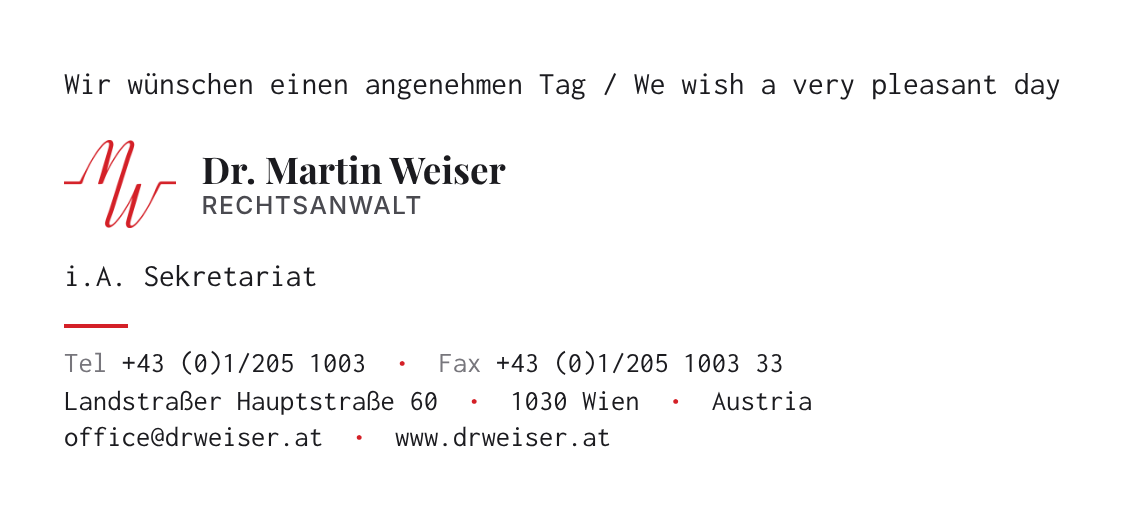
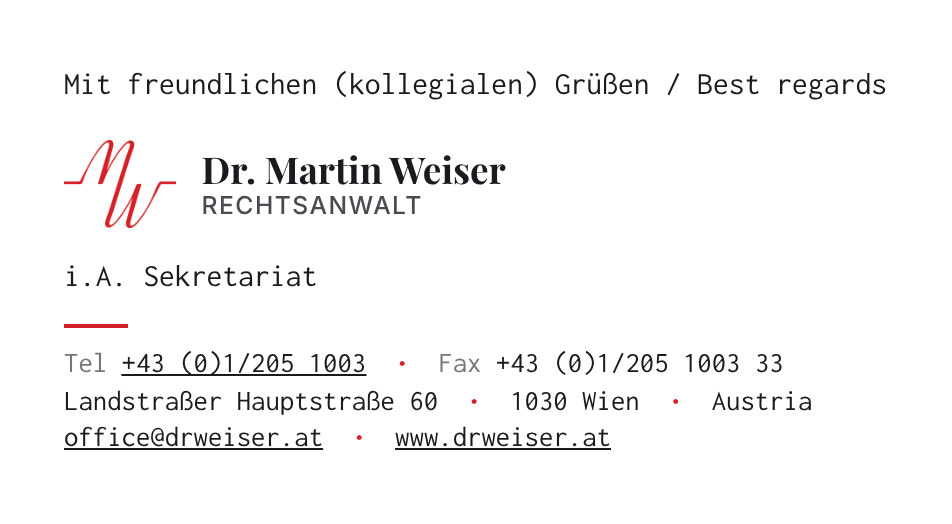
E-Mail-Signatur: neue Grußzeile, Entwurf mit langem Strich, sichtbare Links
- Erste Zeile: „Mit freundlichen (kollegialen) Grüßen / Best regards“
- Zweiter Entwurf mit langem rotem Strich über den Kontaktdaten
- Telefon, E-Mail und Website unterstrichen verlinkt; Website-Links
  auf https://drweiser.at, da das Zertifikat www nicht abdeckt
- Vorschauen und Anleitung für beide Entwürfe

Claude-Session: https://claude.ai/code/session_01FmFstLP2dWuSsSstYfuTzq

diff --git a/email-signatur/signatur-web.html b/email-signatur/signatur-web.html
@@ -10,14 +10,14 @@
   E-Mail-Signatur Kanzlei Dr. Martin Weiser
   Übernehmen: Datei im Browser öffnen, Strg+A, Strg+C, im Signatur-Editor
   des Mailprogramms einfügen (Strg+V). Anleitung: README.md
-  Variante mit eingebettetem Logo (für neues Outlook, Outlook im Web, Mac).
+  Entwurf A (kurzer roter Strich), Logo eingebettet (neues Outlook, Outlook im Web, Mac).
 -->
 <table role="presentation" cellpadding="0" cellspacing="0" border="0" style="border-collapse:collapse;">
   <tr>
-    <td style="padding:0 0 12px 0; font-family:Consolas, Menlo, 'Courier New', monospace; font-size:11pt; line-height:15pt; mso-line-height-rule:exactly; color:#1B1B1F;">Wir w&uuml;nschen einen angenehmen Tag&nbsp;/ We&nbsp;wish&nbsp;a&nbsp;very&nbsp;pleasant&nbsp;day</td>
+    <td style="padding:0 0 12px 0; font-family:Consolas, Menlo, 'Courier New', monospace; font-size:11pt; line-height:15pt; mso-line-height-rule:exactly; color:#1B1B1F;">Mit freundlichen (kollegialen) Gr&uuml;&szlig;en&nbsp;/ Best&nbsp;regards</td>
   </tr>
   <tr>
[2 lines of base64/hex data omitted]
   </tr>
   <tr>
     <td style="padding:0 0 14px 0; font-family:Consolas, Menlo, 'Courier New', monospace; font-size:11pt; line-height:15pt; mso-line-height-rule:exactly; color:#1B1B1F;">i.A. Sekretariat</td>
@@ -30,9 +30,9 @@
     </td>
   </tr>
   <tr>
-    <td style="font-family:Consolas, Menlo, 'Courier New', monospace; font-size:10pt; line-height:14pt; mso-line-height-rule:exactly; color:#1B1B1F;"><span style="color:#77767C;">Tel</span>&nbsp;<a href="tel:+4312051003" style="color:#1B1B1F; text-decoration:none;"><span style="color:#1B1B1F;">+43&nbsp;(0)1/205&nbsp;1003</span></a>&nbsp;&nbsp;<span style="color:#D42027;">&bull;</span>&nbsp; <span style="color:#77767C;">Fax</span>&nbsp;+43&nbsp;(0)1/205&nbsp;1003&nbsp;33<br>
+    <td style="font-family:Consolas, Menlo, 'Courier New', monospace; font-size:10pt; line-height:14pt; mso-line-height-rule:exactly; color:#1B1B1F;"><span style="color:#77767C;">Tel</span>&nbsp;<a href="tel:+4312051003" style="color:#1B1B1F; text-decoration:underline;"><span style="color:#1B1B1F; text-decoration:underline;">+43&nbsp;(0)1/205&nbsp;1003</span></a>&nbsp;&nbsp;<span style="color:#D42027;">&bull;</span>&nbsp; <span style="color:#77767C;">Fax</span>&nbsp;+43&nbsp;(0)1/205&nbsp;1003&nbsp;33<br>
 Landstra&szlig;er&nbsp;Hauptstra&szlig;e&nbsp;60&nbsp;&nbsp;<span style="color:#D42027;">&bull;</span>&nbsp; 1030&nbsp;Wien&nbsp;&nbsp;<span style="color:#D42027;">&bull;</span>&nbsp;&nbsp;Austria<br>
-<a href="mailto:office@drweiser.at" style="color:#1B1B1F; text-decoration:none;"><span style="color:#1B1B1F;">office@drweiser.at</span></a>&nbsp;&nbsp;<span style="color:#D42027;">&bull;</span>&nbsp; <a href="https://www.drweiser.at" style="color:#1B1B1F; text-decoration:none;"><span style="color:#1B1B1F;">www.drweiser.at</span></a></td>
+<a href="mailto:office@drweiser.at" style="color:#1B1B1F; text-decoration:underline;"><span style="color:#1B1B1F; text-decoration:underline;">office@drweiser.at</span></a>&nbsp;&nbsp;<span style="color:#D42027;">&bull;</span>&nbsp; <a href="https://drweiser.at" style="color:#1B1B1F; text-decoration:underline;"><span style="color:#1B1B1F; text-decoration:underline;">www.drweiser.at</span></a></td>
   </tr>
 </table>
 </body>

diff --git a/email-signatur/signatur-langer-strich-web.html b/email-signatur/signatur-langer-strich-web.html
@@ -1,0 +1,32 @@
+<!DOCTYPE html>
+<html lang="de">
+<head>
+<meta http-equiv="Content-Type" content="text/html; charset=utf-8">
+<meta name="viewport" content="width=device-width, initial-scale=1">
+<title>E-Mail-Signatur Dr. Martin Weiser</title>
+</head>
+<body style="margin:0; padding:24px; background-color:#ffffff;">
+<!--
+  E-Mail-Signatur Kanzlei Dr. Martin Weiser
+  Übernehmen: Datei im Browser öffnen, Strg+A, Strg+C, im Signatur-Editor
+  des Mailprogramms einfügen (Strg+V). Anleitung: README.md
+  Entwurf B (langer roter Strich), Logo eingebettet (neues Outlook, Outlook im Web, Mac).
+-->
+<table role="presentation" cellpadding="0" cellspacing="0" border="0" style="border-collapse:collapse;">
+  <tr>
+    <td style="padding:0 0 12px 0; font-family:Consolas, Menlo, 'Courier New', monospace; font-size:11pt; line-height:15pt; mso-line-height-rule:exactly; color:#1B1B1F;">Mit freundlichen (kollegialen) Gr&uuml;&szlig;en&nbsp;/ Best&nbsp;regards</td>
+  </tr>
+  <tr>
[1 lines of base64/hex data omitted]
+  </tr>
+  <tr>
+    <td style="padding:0 0 14px 0; font-family:Consolas, Menlo, 'Courier New', monospace; font-size:11pt; line-height:15pt; mso-line-height-rule:exactly; color:#1B1B1F;">i.A. Sekretariat</td>
+  </tr>
+  <tr>
+    <td style="border-top:2px solid #D42027; padding-top:10px; font-family:Consolas, Menlo, 'Courier New', monospace; font-size:10pt; line-height:14pt; mso-line-height-rule:exactly; color:#1B1B1F;"><span style="color:#77767C;">Tel</span>&nbsp;<a href="tel:+4312051003" style="color:#1B1B1F; text-decoration:underline;"><span style="color:#1B1B1F; text-decoration:underline;">+43&nbsp;(0)1/205&nbsp;1003</span></a>&nbsp;&nbsp;<span style="color:#D42027;">&bull;</span>&nbsp; <span style="color:#77767C;">Fax</span>&nbsp;+43&nbsp;(0)1/205&nbsp;1003&nbsp;33<br>
+Landstra&szlig;er&nbsp;Hauptstra&szlig;e&nbsp;60&nbsp;&nbsp;<span style="color:#D42027;">&bull;</span>&nbsp; 1030&nbsp;Wien&nbsp;&nbsp;<span style="color:#D42027;">&bull;</span>&nbsp;&nbsp;Austria<br>
+<a href="mailto:office@drweiser.at" style="color:#1B1B1F; text-decoration:underline;"><span style="color:#1B1B1F; text-decoration:underline;">office@drweiser.at</span></a>&nbsp;&nbsp;<span style="color:#D42027;">&bull;</span>&nbsp; <a href="https://drweiser.at" style="color:#1B1B1F; text-decoration:underline;"><span style="color:#1B1B1F; text-decoration:underline;">www.drweiser.at</span></a></td>
+  </tr>
+</table>
+</body>
+</html>

diff --git a/email-signatur/signatur.html b/email-signatur/signatur.html
@@ -10,14 +10,14 @@
   E-Mail-Signatur Kanzlei Dr. Martin Weiser
   Übernehmen: Datei im Browser öffnen, Strg+A, Strg+C, im Signatur-Editor
   des Mailprogramms einfügen (Strg+V). Anleitung: README.md
-  logo-signatur.png muss im selben Ordner liegen wie diese Datei.
+  Entwurf A (kurzer roter Strich). logo-signatur.png muss im selben Ordner liegen.
 -->
 <table role="presentation" cellpadding="0" cellspacing="0" border="0" style="border-collapse:collapse;">
   <tr>
-    <td style="padding:0 0 12px 0; font-family:Consolas, Menlo, 'Courier New', monospace; font-size:11pt; line-height:15pt; mso-line-height-rule:exactly; color:#1B1B1F;">Wir w&uuml;nschen einen angenehmen Tag&nbsp;/ We&nbsp;wish&nbsp;a&nbsp;very&nbsp;pleasant&nbsp;day</td>
+    <td style="padding:0 0 12px 0; font-family:Consolas, Menlo, 'Courier New', monospace; font-size:11pt; line-height:15pt; mso-line-height-rule:exactly; color:#1B1B1F;">Mit freundlichen (kollegialen) Gr&uuml;&szlig;en&nbsp;/ Best&nbsp;regards</td>
   </tr>
   <tr>
-    <td style="padding:0 0 8px 0;"><a href="https://www.drweiser.at" style="text-decoration:none;"><img src="logo-signatur.png" width="231" height="56" alt="Dr. Martin Weiser &middot; Rechtsanwalt" style="display:block; width:231px; height:56px; border:0;"></a></td>
+    <td style="padding:0 0 8px 0;"><a href="https://drweiser.at" style="text-decoration:none;"><img src="logo-signatur.png" width="231" height="56" alt="Dr. Martin Weiser &middot; Rechtsanwalt" style="display:block; width:231px; height:56px; border:0;"></a></td>
   </tr>
   <tr>
     <td style="padding:0 0 14px 0; font-family:Consolas, Menlo, 'Courier New', monospace; font-size:11pt; line-height:15pt; mso-line-height-rule:exactly; color:#1B1B1F;">i.A. Sekretariat</td>
@@ -30,9 +30,9 @@
     </td>
   </tr>
   <tr>
-    <td style="font-family:Consolas, Menlo, 'Courier New', monospace; font-size:10pt; line-height:14pt; mso-line-height-rule:exactly; color:#1B1B1F;"><span style="color:#77767C;">Tel</span>&nbsp;<a href="tel:+4312051003" style="color:#1B1B1F; text-decoration:none;"><span style="color:#1B1B1F;">+43&nbsp;(0)1/205&nbsp;1003</span></a>&nbsp;&nbsp;<span style="color:#D42027;">&bull;</span>&nbsp; <span style="color:#77767C;">Fax</span>&nbsp;+43&nbsp;(0)1/205&nbsp;1003&nbsp;33<br>
+    <td style="font-family:Consolas, Menlo, 'Courier New', monospace; font-size:10pt; line-height:14pt; mso-line-height-rule:exactly; color:#1B1B1F;"><span style="color:#77767C;">Tel</span>&nbsp;<a href="tel:+4312051003" style="color:#1B1B1F; text-decoration:underline;"><span style="color:#1B1B1F; text-decoration:underline;">+43&nbsp;(0)1/205&nbsp;1003</span></a>&nbsp;&nbsp;<span style="color:#D42027;">&bull;</span>&nbsp; <span style="color:#77767C;">Fax</span>&nbsp;+43&nbsp;(0)1/205&nbsp;1003&nbsp;33<br>
 Landstra&szlig;er&nbsp;Hauptstra&szlig;e&nbsp;60&nbsp;&nbsp;<span style="color:#D42027;">&bull;</span>&nbsp; 1030&nbsp;Wien&nbsp;&nbsp;<span style="color:#D42027;">&bull;</span>&nbsp;&nbsp;Austria<br>
-<a href="mailto:office@drweiser.at" style="color:#1B1B1F; text-decoration:none;"><span style="color:#1B1B1F;">office@drweiser.at</span></a>&nbsp;&nbsp;<span style="color:#D42027;">&bull;</span>&nbsp; <a href="https://www.drweiser.at" style="color:#1B1B1F; text-decoration:none;"><span style="color:#1B1B1F;">www.drweiser.at</span></a></td>
+<a href="mailto:office@drweiser.at" style="color:#1B1B1F; text-decoration:underline;"><span style="color:#1B1B1F; text-decoration:underline;">office@drweiser.at</span></a>&nbsp;&nbsp;<span style="color:#D42027;">&bull;</span>&nbsp; <a href="https://drweiser.at" style="color:#1B1B1F; text-decoration:underline;"><span style="color:#1B1B1F; text-decoration:underline;">www.drweiser.at</span></a></td>
   </tr>
 </table>
 </body>

diff --git a/email-signatur/signatur-langer-strich.html b/email-signatur/signatur-langer-strich.html
@@ -1,0 +1,32 @@
+<!DOCTYPE html>
+<html lang="de">
+<head>
+<meta http-equiv="Content-Type" content="text/html; charset=utf-8">
+<meta name="viewport" content="width=device-width, initial-scale=1">
+<title>E-Mail-Signatur Dr. Martin Weiser</title>
+</head>
+<body style="margin:0; padding:24px; background-color:#ffffff;">
+<!--
+  E-Mail-Signatur Kanzlei Dr. Martin Weiser
+  Übernehmen: Datei im Browser öffnen, Strg+A, Strg+C, im Signatur-Editor
+  des Mailprogramms einfügen (Strg+V). Anleitung: README.md
+  Entwurf B (langer roter Strich). logo-signatur.png muss im selben Ordner liegen.
+-->
+<table role="presentation" cellpadding="0" cellspacing="0" border="0" style="border-collapse:collapse;">
+  <tr>
+    <td style="padding:0 0 12px 0; font-family:Consolas, Menlo, 'Courier New', monospace; font-size:11pt; line-height:15pt; mso-line-height-rule:exactly; color:#1B1B1F;">Mit freundlichen (kollegialen) Gr&uuml;&szlig;en&nbsp;/ Best&nbsp;regards</td>
+  </tr>
+  <tr>
+    <td style="padding:0 0 8px 0;"><a href="https://drweiser.at" style="text-decoration:none;"><img src="logo-signatur.png" width="231" height="56" alt="Dr. Martin Weiser &middot; Rechtsanwalt" style="display:block; width:231px; height:56px; border:0;"></a></td>
+  </tr>
+  <tr>
+    <td style="padding:0 0 14px 0; font-family:Consolas, Menlo, 'Courier New', monospace; font-size:11pt; line-height:15pt; mso-line-height-rule:exactly; color:#1B1B1F;">i.A. Sekretariat</td>
+  </tr>
+  <tr>
+    <td style="border-top:2px solid #D42027; padding-top:10px; font-family:Consolas, Menlo, 'Courier New', monospace; font-size:10pt; line-height:14pt; mso-line-height-rule:exactly; color:#1B1B1F;"><span style="color:#77767C;">Tel</span>&nbsp;<a href="tel:+4312051003" style="color:#1B1B1F; text-decoration:underline;"><span style="color:#1B1B1F; text-decoration:underline;">+43&nbsp;(0)1/205&nbsp;1003</span></a>&nbsp;&nbsp;<span style="color:#D42027;">&bull;</span>&nbsp; <span style="color:#77767C;">Fax</span>&nbsp;+43&nbsp;(0)1/205&nbsp;1003&nbsp;33<br>
+Landstra&szlig;er&nbsp;Hauptstra&szlig;e&nbsp;60&nbsp;&nbsp;<span style="color:#D42027;">&bull;</span>&nbsp; 1030&nbsp;Wien&nbsp;&nbsp;<span style="color:#D42027;">&bull;</span>&nbsp;&nbsp;Austria<br>
+<a href="mailto:office@drweiser.at" style="color:#1B1B1F; text-decoration:underline;"><span style="color:#1B1B1F; text-decoration:underline;">office@drweiser.at</span></a>&nbsp;&nbsp;<span style="color:#D42027;">&bull;</span>&nbsp; <a href="https://drweiser.at" style="color:#1B1B1F; text-decoration:underline;"><span style="color:#1B1B1F; text-decoration:underline;">www.drweiser.at</span></a></td>
+  </tr>
+</table>
+</body>
+</html>

diff --git a/email-signatur/README.md b/email-signatur/README.md
@@ -1,17 +1,25 @@
 # E-Mail-Signatur – Kanzlei Dr. Martin Weiser
 
-Neuer Entwurf der E-Mail-Signatur. Die Schrift bleibt **Consolas** wie bisher.
+Neue E-Mail-Signatur in zwei Entwürfen. Die Schrift bleibt **Consolas** wie bisher.
 Logo und Schriftzug sehen aus wie auf www.drweiser.at, nur ohne den Hintergrund.
 
-![Vorschau der neuen Signatur](vorschau.png)
+**Entwurf A – kurzer roter Strich**
+
+![Entwurf A mit kurzem rotem Strich](vorschau.png)
+
+**Entwurf B – langer roter Strich**
+
+![Entwurf B mit langem rotem Strich](vorschau-langer-strich.png)
 
 ## Was ist neu
 
-- Das rote „MW“-Logo mit dem Schriftzug „Dr. Martin Weiser / Rechtsanwalt“ genau wie auf der Website.
+- In der ersten Zeile steht „Mit freundlichen (kollegialen) Grüßen / Best regards“.
+- Das rote „MW“-Logo mit dem Schriftzug „Dr. Martin Weiser / Rechtsanwalt“ ist genau wie auf der Website.
   Verwendet werden das Original-Logo und die Website-Schriften (Playfair Display, Inter).
+- Telefonnummer, E-Mail-Adresse und Website sind verlinkt und unterstrichen.
+  Am Handy ruft ein Antippen der Nummer direkt an. Auch das Logo führt zur Website.
 - Die Telefonnummern stehen so wie auf der Website da: +43 (0)1/205 1003
-- Die Signatur ist linksbündig, klarer gegliedert und hat kleine Akzente im Kanzlei-Rot.
-- Telefonnummer, E-Mail-Adresse und Website lassen sich anklicken. Am Handy ruft ein Antippen an.
+- Die Signatur ist linksbündig, klarer gegliedert und hat Akzente im Kanzlei-Rot.
 - Im Dunkelmodus steht das Logo auf einer weißen Fläche und bleibt so gut lesbar.
   Am Handy brechen die Zeilen sauber um.
 
@@ -19,16 +27,19 @@ Logo und Schriftzug sehen aus wie auf www.drweiser.at, nur ohne den Hintergrund.
 
 | Datei | Wofür |
 | --- | --- |
-| `signatur.html` | Signatur für Outlook am PC (klassisches Outlook) |
-| `signatur-web.html` | dieselbe Signatur mit eingebautem Logo, für das neue Outlook, Outlook im Web und den Mac |
-| `logo-signatur.png` | Logo mit Schriftzug, muss im selben Ordner liegen wie `signatur.html` |
-| `vorschau.png` | Vorschau |
+| `signatur.html` | Entwurf A für Outlook am PC (klassisches Outlook) |
+| `signatur-web.html` | Entwurf A mit eingebautem Logo, für das neue Outlook, Outlook im Web und den Mac |
+| `signatur-langer-strich.html` | Entwurf B für Outlook am PC (klassisches Outlook) |
+| `signatur-langer-strich-web.html` | Entwurf B mit eingebautem Logo, für das neue Outlook, Outlook im Web und den Mac |
+| `logo-signatur.png` | Logo mit Schriftzug, muss im selben Ordner liegen wie die HTML-Dateien |
+| `vorschau.png`, `vorschau-langer-strich.png` | Vorschau der beiden Entwürfe |
 
 ## In Outlook einrichten (Windows, klassisches Outlook)
 
 1. Den Ordner `email-signatur` auf den PC laden, z. B. in „Downloads“.
-   `signatur.html` und `logo-signatur.png` müssen zusammen im selben Ordner bleiben.
-2. `signatur.html` doppelklicken. Die Signatur öffnet sich im Browser.
+   Die HTML-Dateien und `logo-signatur.png` müssen zusammen im selben Ordner bleiben.
+2. Den gewünschten Entwurf doppelklicken: `signatur.html` (A) oder `signatur-langer-strich.html` (B).
+   Die Signatur öffnet sich im Browser.
 3. **Strg + A** drücken, dann **Strg + C**.
 4. In Outlook auf **Datei → Optionen → E-Mail → Signaturen… → Neu** gehen und einen Namen eingeben, z. B. „Kanzlei“.
 5. In das große Bearbeitungsfeld klicken, **Strg + V** drücken und dann auf **Speichern** klicken.
@@ -36,12 +47,12 @@ Logo und Schriftzug sehen aus wie auf www.drweiser.at, nur ohne den Hintergrund.
 
 ## Neues Outlook oder Outlook im Web
 
-Die Schritte sind dieselben wie oben, nur mit `signatur-web.html`.
+Die Schritte sind dieselben wie oben, nur mit der Datei, die auf `-web.html` endet.
 Eingefügt wird unter **Einstellungen (Zahnrad) → Konten → Signaturen**.
 
 ## Mac (Apple Mail oder Outlook für Mac)
 
-1. `signatur-web.html` in Safari öffnen.
+1. Die Datei, die auf `-web.html` endet, in Safari öffnen.
 2. **Cmd + A** drücken, dann **Cmd + C**.
 3. Die Signatur im Signatur-Fenster einfügen:
    - Apple Mail: **Mail → Einstellungen → Signaturen**
@@ -51,6 +62,9 @@ Eingefügt wird unter **Einstellungen (Zahnrad) → Konten → Signaturen**.
 
 ## Gut zu wissen
 
+- Die Website-Links führen auf https://drweiser.at ohne „www“, angezeigt wird aber „www.drweiser.at“.
+  Das Sicherheitszertifikat der Website gilt nämlich nur für drweiser.at.
+  Ein Link auf https://www.drweiser.at würde eine Sicherheitswarnung zeigen.
 - Die Vorschau entstand mit einer Ersatzschrift, die Consolas sehr ähnlich ist.
   In Outlook erscheint die echte Consolas.
 - Empfänger ohne Consolas, z. B. am iPhone, sehen automatisch eine ähnliche Schrift.
